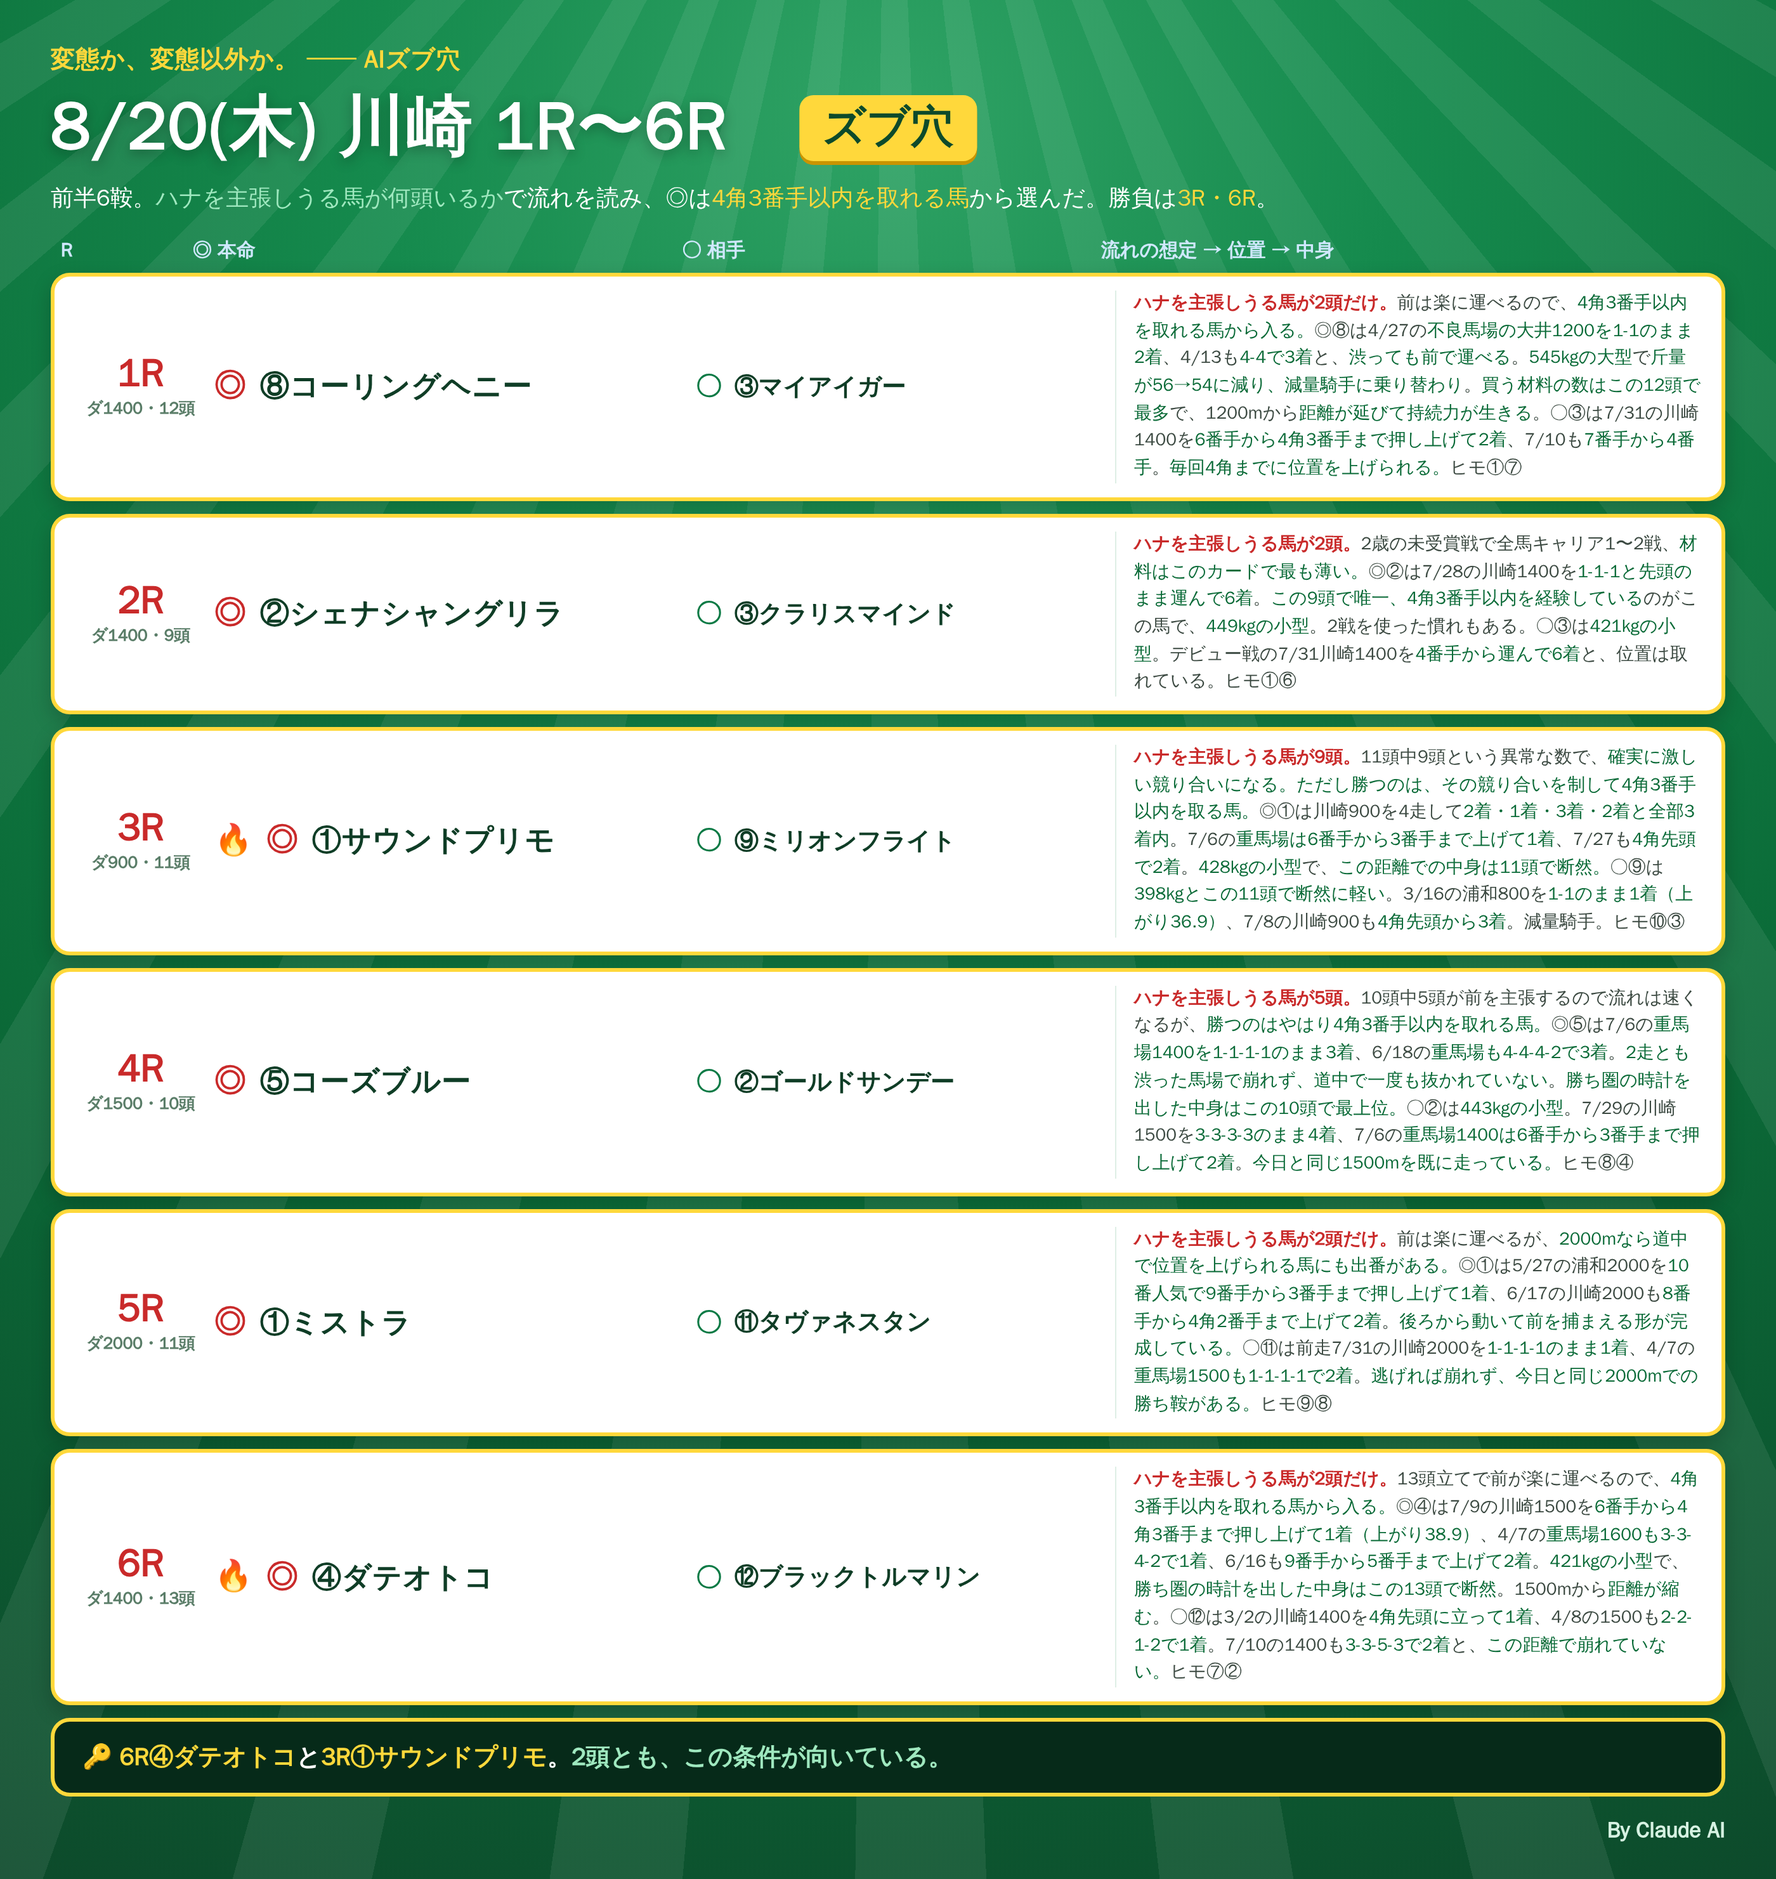
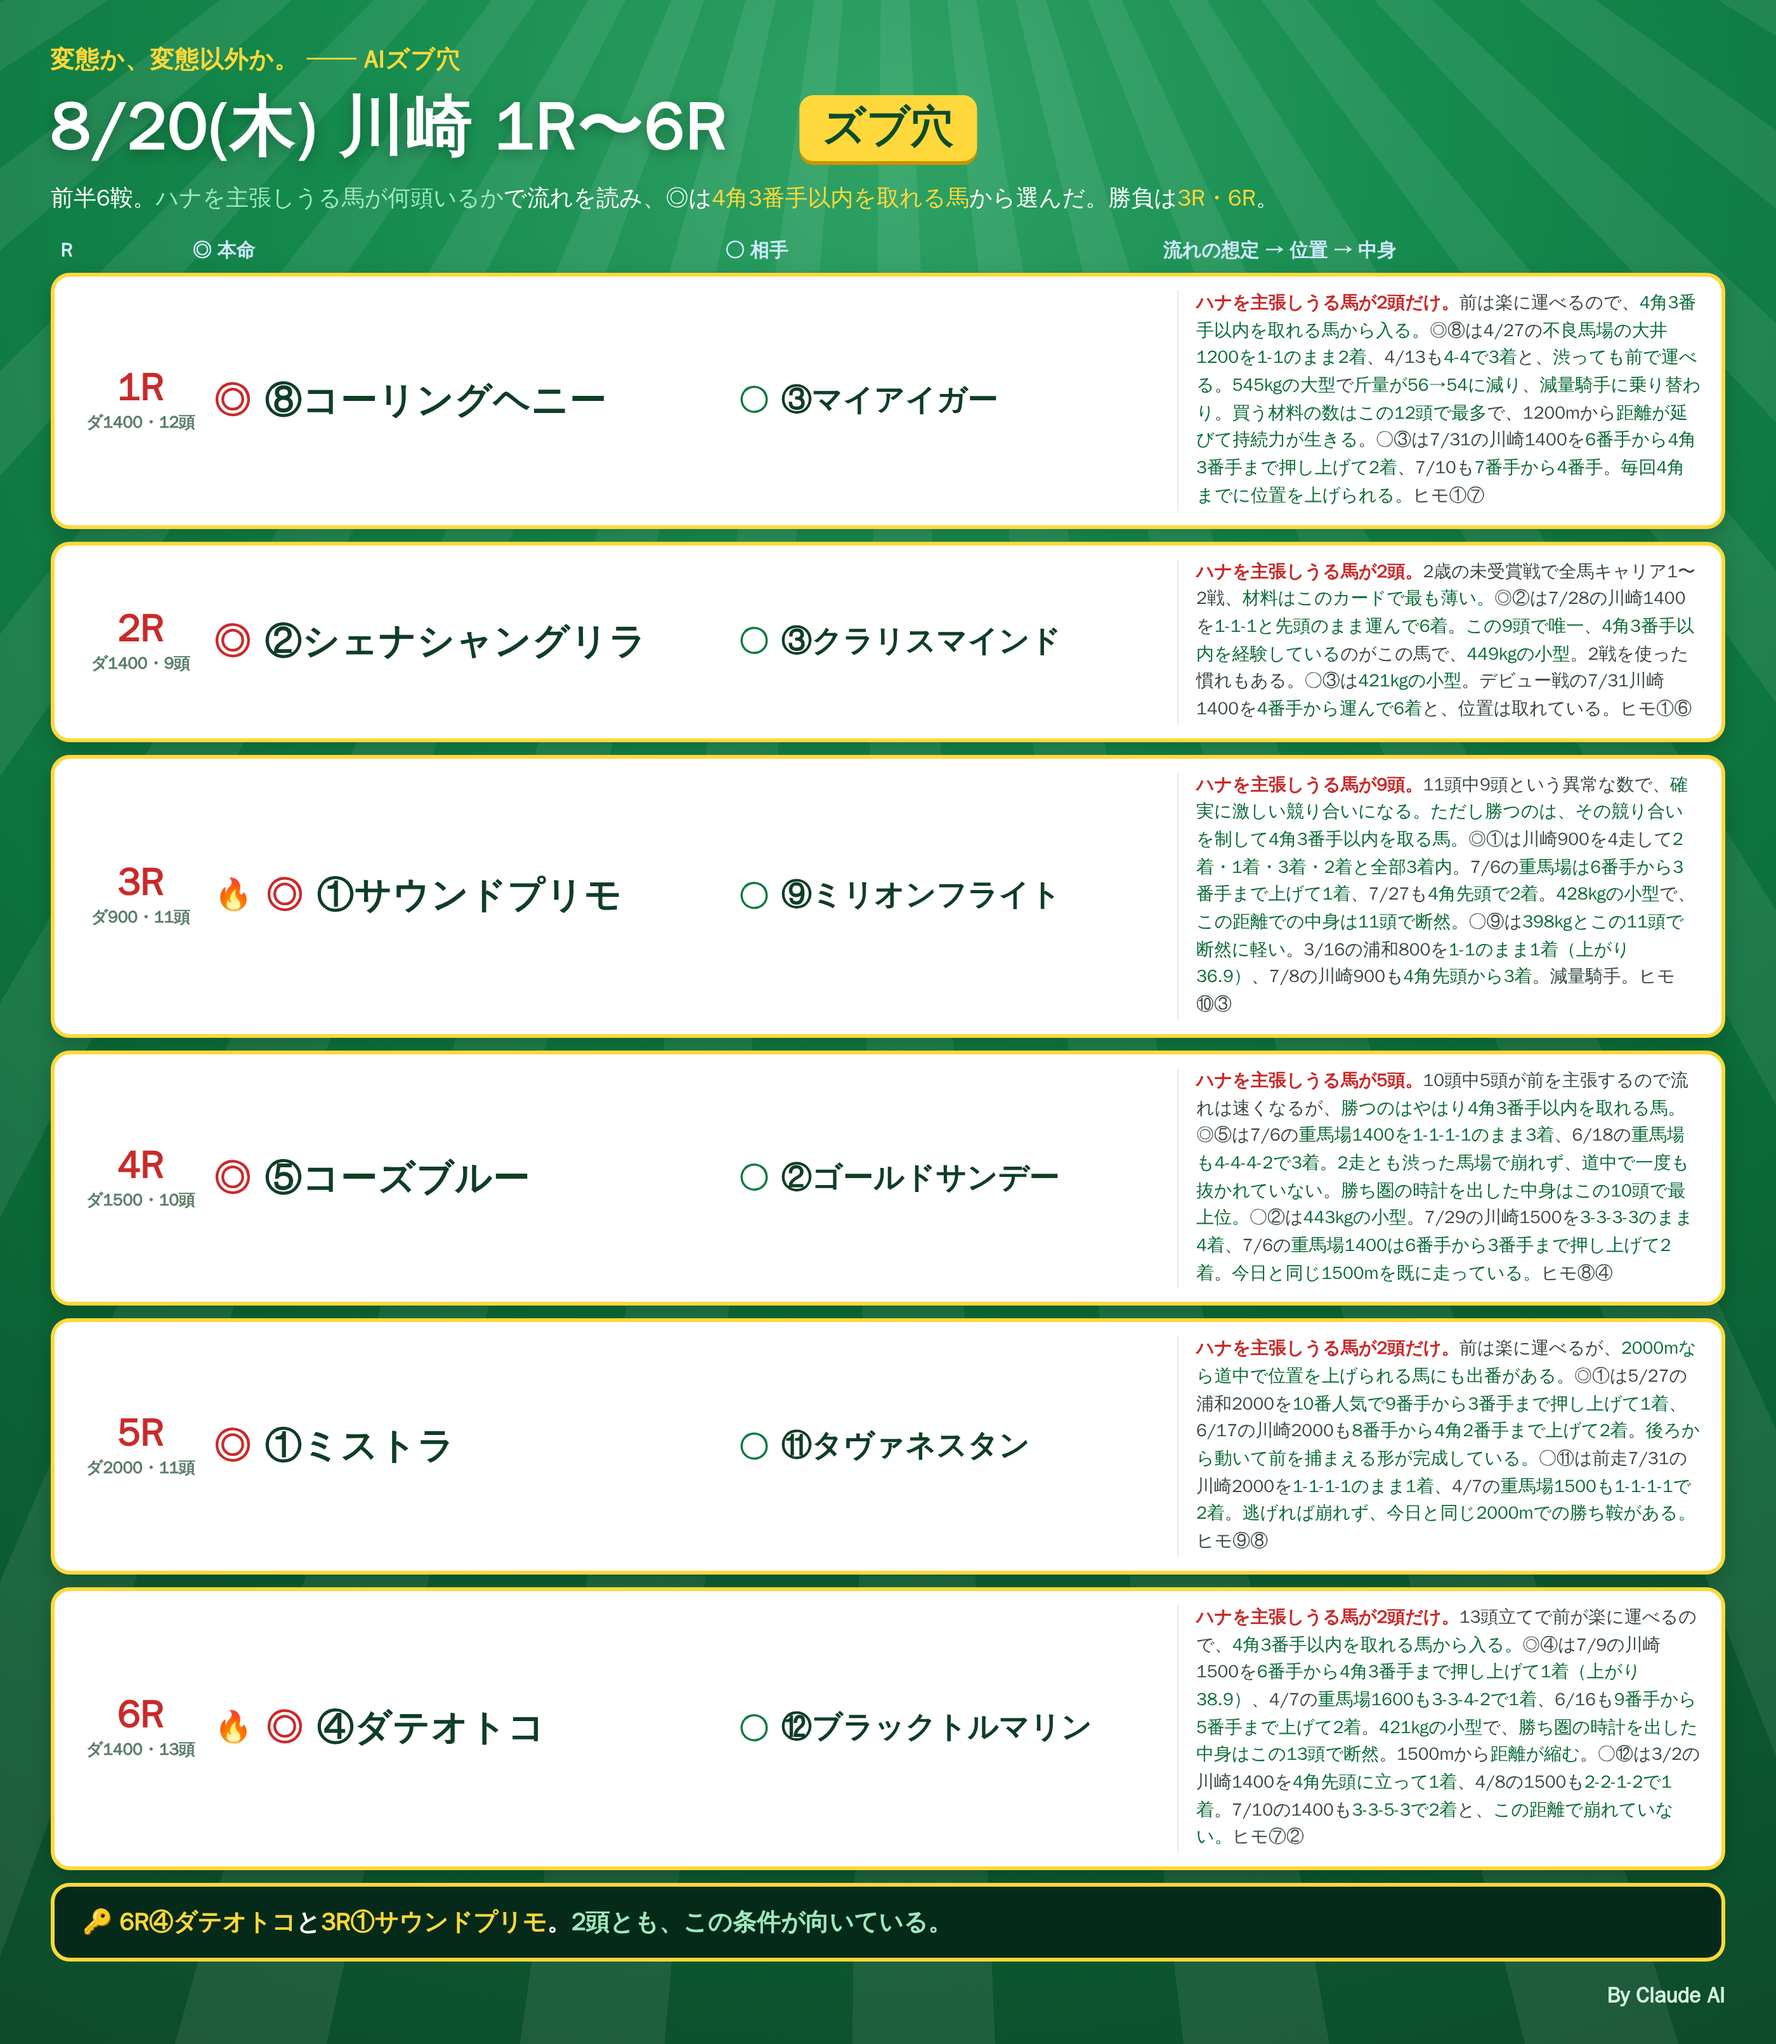
notes: 8/20 川崎前半カードの馬名を拡大
◎23→29px、○19→24px。名前欄の幅を386→420px／330→345pxに広げて収めた。

Claude-Session: https://claude.ai/code/session_01RoHscZkr96FNaxQWvUqgEw

diff --git a/notes/live/2026-08-20/kawasaki_1_6.html b/notes/live/2026-08-20/kawasaki_1_6.html
@@ -17,19 +17,19 @@
   .lead .y{color:#ffd83b;} .lead .c{color:#9fe8bf;}
 
   .cols { display:flex; margin:20px 0 7px; padding:0 8px; color:#cfe8ff; font-size:15px; font-weight:800; }
-  .cR{flex:0 0 104px;} .cH{flex:0 0 386px;} .cA{flex:0 0 330px;} .cM{flex:1;}
+  .cR{flex:0 0 104px;} .cH{flex:0 0 420px;} .cA{flex:0 0 345px;} .cM{flex:1;}
 
   .row { display:flex; align-items:stretch; background:#fff; border:3px solid #ffd83b; border-radius:15px;
          margin-bottom:10px; padding:11px 16px; box-shadow:0 6px 16px rgba(0,0,0,.2); }
   .rN { flex:0 0 104px; display:flex; flex-direction:column; justify-content:center; align-items:center; }
   .rN .n { color:#c92a2a; font-size:30px; font-weight:900; line-height:1; }
   .rN .d { color:#5a7d68; font-size:13px; font-weight:800; margin-top:4px; }
-  .hm { flex:0 0 386px; display:flex; align-items:center; gap:11px; padding-left:6px; }
-  .at { flex:0 0 330px; display:flex; align-items:center; gap:10px; }
-  .mk { font-size:25px; font-weight:900; color:#c92a2a; }
-  .mk2 { font-size:20px; font-weight:900; color:#0b7a45; }
-  .nm { font-size:23px; font-weight:900; color:#0f3d26; letter-spacing:.5px; }
-  .nm2 { font-size:19px; font-weight:900; color:#0f3d26; }
+  .hm { flex:0 0 420px; display:flex; align-items:center; gap:11px; padding-left:6px; }
+  .at { flex:0 0 345px; display:flex; align-items:center; gap:10px; }
+  .mk { font-size:29px; font-weight:900; color:#c92a2a; }
+  .mk2 { font-size:23px; font-weight:900; color:#0b7a45; }
+  .nm { font-size:29px; font-weight:900; color:#0f3d26; letter-spacing:.5px; }
+  .nm2 { font-size:24px; font-weight:900; color:#0f3d26; }
   .fire { font-size:24px; }
   .memo { flex:1; color:#3c4a42; font-size:14px; line-height:1.55; padding-left:14px; border-left:1px solid #dfefe6; align-self:center; }
   .memo b { color:#0b6b38; } .memo .r { color:#c92a2a; font-weight:900; }
